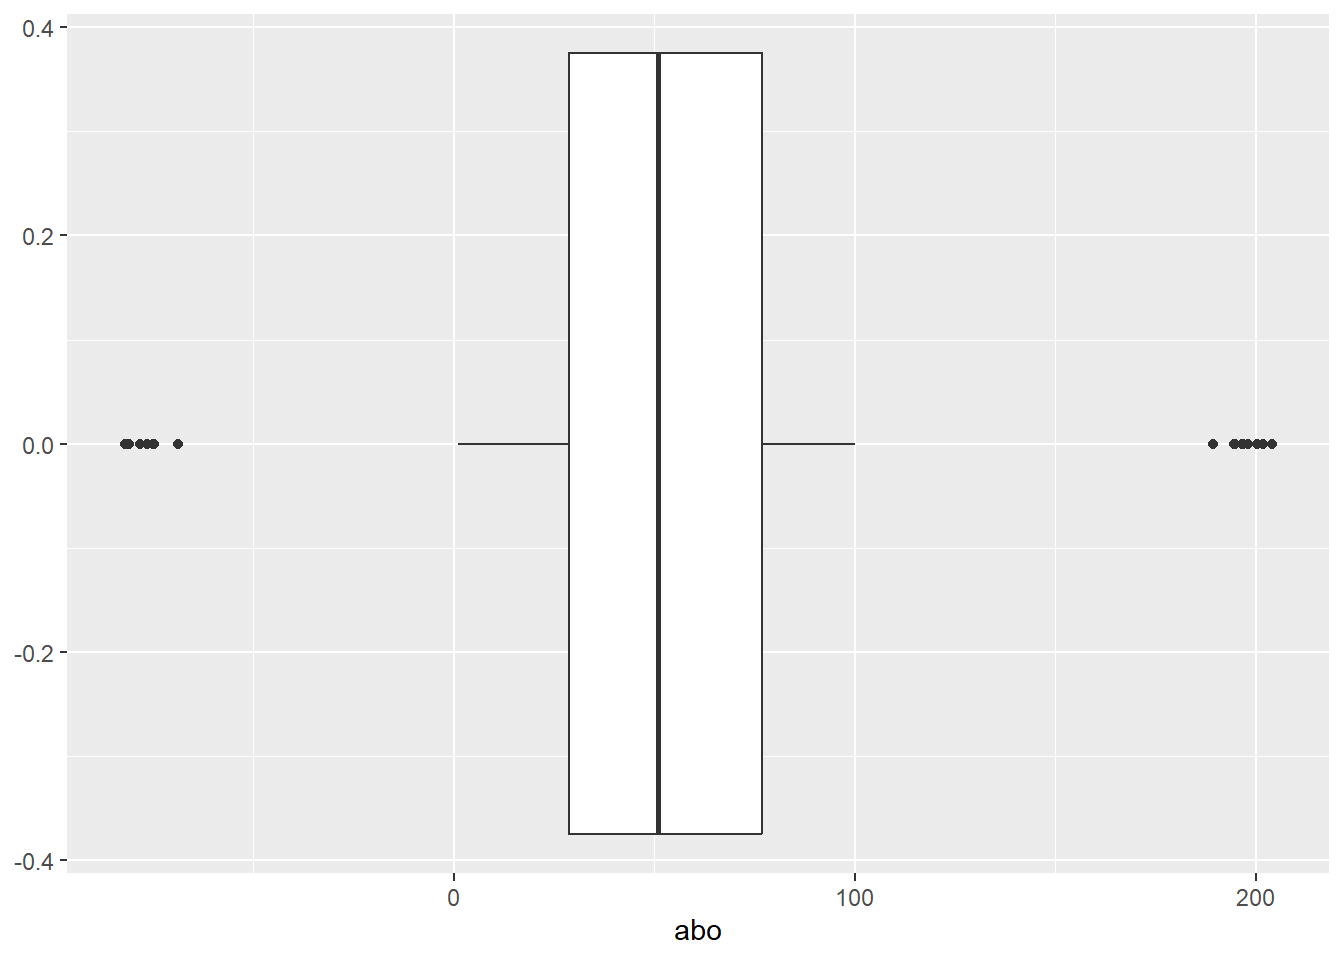
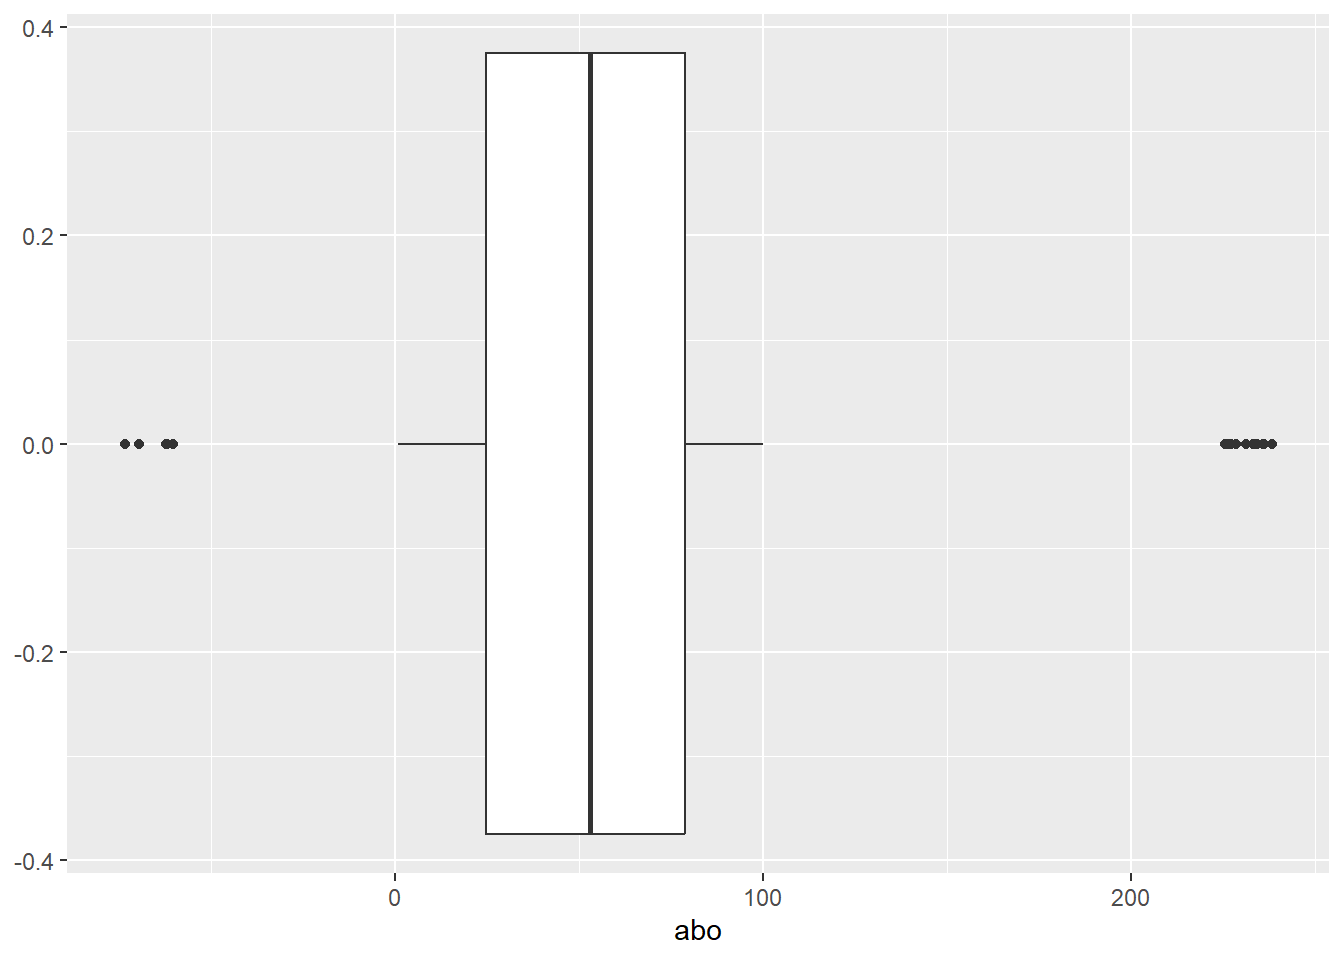
C7 fix

diff --git a/docs/C7-correlacion.html b/docs/C7-correlacion.html
@@ -321,6 +321,11 @@ pre > code.sourceCode > span > a:first-child::before { text-decoration: underlin
 </div>
 </div>
 <p>Tenemos ambas ‘outliers’ acá. El método general aceptado es usar la distribución normal y eliminar todo que esta mas de 3 deviaciones estándar desde el promedio (arriba y abajo).</p>
+<div class="quarto-figure quarto-figure-center">
+<figure class="figure">
+<p><img src="images/outliers_2-01.png" class="img-fluid quarto-figure quarto-figure-center figure-img"></p>
+</figure>
+</div>
 <p>A hacerse, identificar los valores atípicos y después eliminarlos y guardar en un dataframe nuevo.</p>
 <div class="cell">
 <div class="sourceCode cell-code" id="cb1"><pre class="sourceCode r code-with-copy"><code class="sourceCode r"><span id="cb1-1"><a href="#cb1-1" aria-hidden="true" tabindex="-1"></a><span class="fu">library</span>(rstatix)</span></code><button title="Copy to Clipboard" class="code-copy-button"><i class="bi"></i></button></pre></div>
